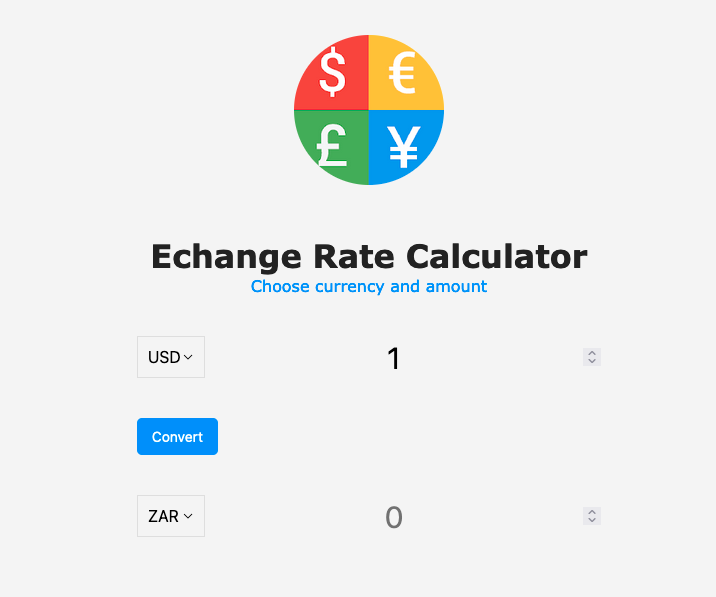
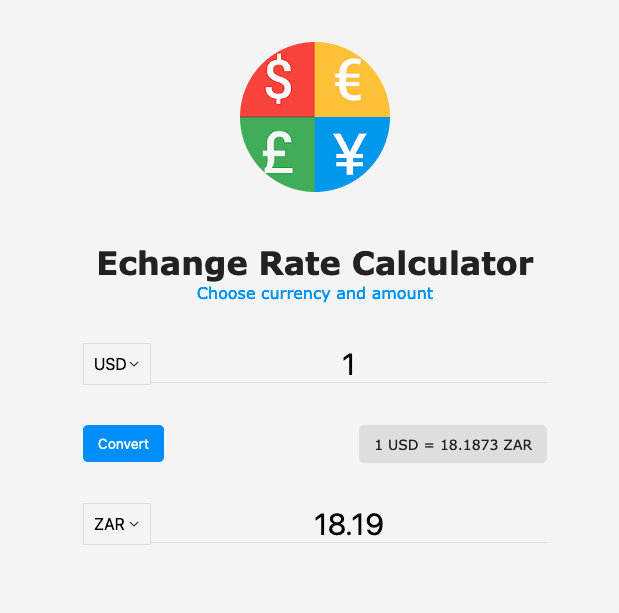
convert currency

diff --git a/index.js b/index.js
@@ -1,0 +1,38 @@
+const currencyOne = document.getElementById("currency-one");
+const currencyTwo = document.getElementById("currency-two");
+const amountOne = document.getElementById("amount-one");
+const amountTwo = document.getElementById("amount-two");
+const rate = document.getElementById("rate");
+const convert = document.getElementById("convert");
+
+// fetch exchange rate
+function calculateRate(){
+    const currOne = currencyOne.value;
+    const currTwo = currencyTwo.value;
+
+    fetch(`https://v6.exchangerate-api.com/v6/63846e3bc1d7e131d1a276f5/latest/${currOne}`)
+        .then(res => res.json())
+        .then(data => {
+            // console.log(data);
+            const currRate = data.conversion_rates[currTwo];
+            
+            rate.innerHTML = `1 ${currOne} = ${currRate} ${currTwo}`;
+
+            // calculate amount
+            amountTwo.value = (amountOne.value * currRate).toFixed(2);
+        });
+}
+
+// event listeners
+currencyOne.addEventListener("change", calculateRate);
+amountOne.addEventListener("input", calculateRate);
+currencyTwo.addEventListener("change", calculateRate);
+amountTwo.addEventListener("input", calculateRate);
+convert.addEventListener("click", () => {
+    const tempVal = currencyOne.value;
+    currencyOne.value = currencyTwo.value;
+    currencyTwo.value = tempVal;
+    calculateRate();
+});
+
+calculateRate();

diff --git a/style.css b/style.css
@@ -70,6 +70,18 @@ p {
     background: transparent;
     font-size: 30px;
     text-align: center;
+    border-bottom: 1px solid #dedede;
+}
+
+input::-webkit-outer-spin-button,
+input::-webkit-inner-spin-button {
+    -webkit-appearance: none;
+    margin: 0;
+}
+
+/* firefox */
+input[type=number]{
+    -moz-appearance: textfield;
 }
 
 .convert-rate {
@@ -79,9 +91,11 @@ p {
 }
 
 .rate {
+    background-color: #dedede;
+    border-radius: 5px;
+    padding: 10px 15px;
     color: #222;
     font-size: 14px;
-    padding: 0 10px;
 }
 
 select:focus, input:focus, button:focus {

diff --git a/index.html b/index.html
@@ -73,7 +73,7 @@
 
         <!-- convert rate -->
         <div class="convert-rate">
-            <button class="btn" id="rate">Convert</button>
+            <button class="btn" id="convert">Convert</button>
             <div class="rate" id="rate"></div>
         </div>
         <!-- currency 2 -->
